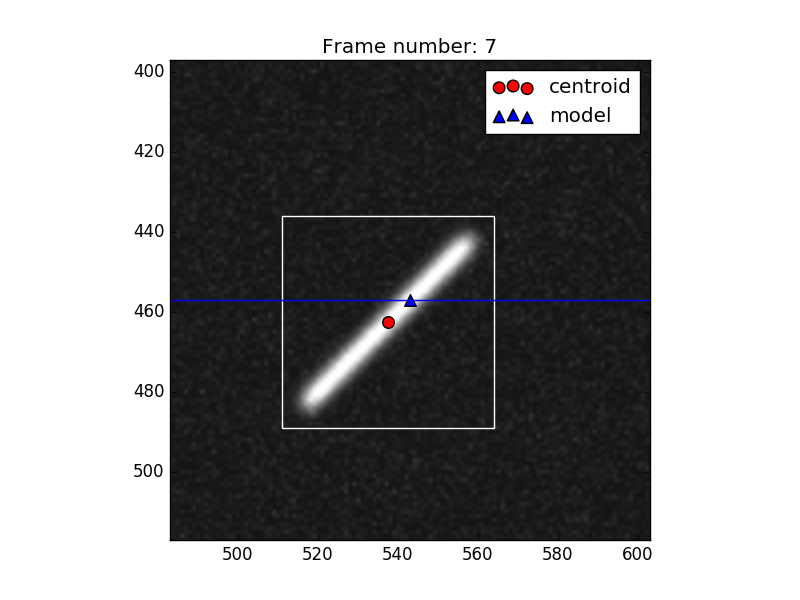
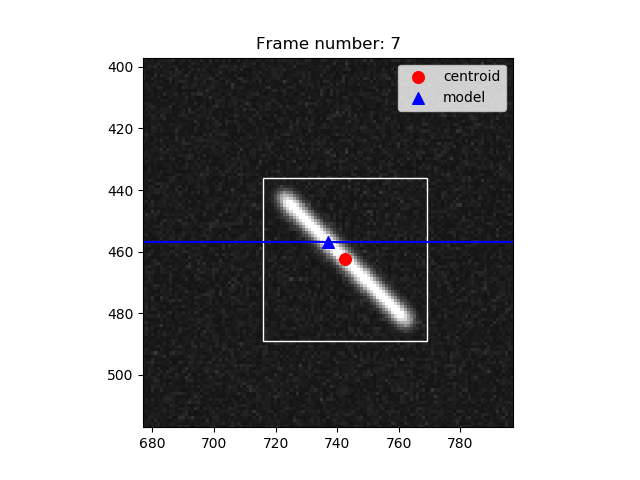
debugging spatial correction

Changed region(s): [[0.1562, 0.0625, 0.8125, 0.9375]]

diff --git a/Source/SimulationTools.py b/Source/SimulationTools.py
@@ -11,6 +11,18 @@ import matplotlib.patches as patches
 import scipy.optimize as opt
 import scipy.special as sp
 
+def ConvToSim(conv_phi):
+
+    sim_phi = (conv_phi + 270) % 360
+
+    return sim_phi
+
+def SimToConv(sim_phi):
+
+    conv_phi = (sim_phi - 270) % 360
+
+    return conv_phi
+
 def drawPoints(t, x_center, y_center, scale, phi, omega, fit_param, t_meteor):
     """ Calculate position of a meteor on image with the given simulation parameters. 
 
@@ -35,8 +47,16 @@ def drawPoints(t, x_center, y_center, scale, phi, omega, fit_param, t_meteor):
     # Convert angle to radians
     phi = np.radians(phi)
 
+    # print(t)
+    # print(t+t_meteor/2)
+    # print(omega*t*scale)
+    # print(- a*np.exp(b*(t+t_meteor/2))*scale)
+
+    omega_dec = omega - a*b*np.exp(b*(t+t_meteor/2))
+    # print(omega_dec)
+
     # Calculate distance from centre in pixels
-    z = omega*t*scale - a*np.exp(b*(t+t_meteor/2))*scale
+    z = omega_dec*t*scale
 
     # Calculate position of meteor on the image
     x_meteor = x_center - np.sin(phi)*z
@@ -263,6 +283,17 @@ def pointsCentroidAndModel(rolling_shutter, t_meteor, phi, omega, img_x, img_y, 
         x_start, y_start = drawPoints(t_start, x_center, y_center, scale, phi, omega, fit_param, t_meteor)
         x_finish, y_finish = drawPoints(t_finish, x_center, y_center, scale, phi, omega, fit_param, t_meteor)
 
+        # print('-'*20)
+
+        # print(t_start, t_finish)
+        # print(t_start + t_meteor/2, t_finish + t_meteor/2)
+        # print(omega*t_start*scale, omega*t_finish*scale)
+        # print(- fit_param[0]*np.exp(fit_param[1]*(t_start+t_meteor/2))*scale, - fit_param[0]*np.exp(fit_param[1]*(t_finish+t_meteor/2))*scale)
+
+        # print(x_start - x_finish)
+        # print(y_start - y_finish)
+
+        # print('-'*20)
 
         # Add 3 sigma border around them
         x_start, x_finish, y_start, y_finish = calcSigmaWindowLimits(x_start, x_finish, sigma_x, y_start, \
@@ -303,9 +334,13 @@ def pointsCentroidAndModel(rolling_shutter, t_meteor, phi, omega, img_x, img_y, 
         # Read image (output image) array
         read_image_array = np.zeros(shape=(img_y, img_x), dtype=np.float_)
 
+        # print('-'*20)
+
 
         # Draw two dimensional Gaussian function for each point in time
         for t in t_arr_iter:
+
+            # print(t)
 
             # Evaluate meteor point and 2D Gaussian
             x, y = drawPoints(t, x_center, y_center, scale, phi, omega, fit_param, t_meteor)
@@ -435,13 +470,13 @@ def pointsCentroidAndModel(rolling_shutter, t_meteor, phi, omega, img_x, img_y, 
 
             plt.axhline(y=y_model, c='b')
 
-            (x_st, x_fin, y_st, y_fin) = calcSigmaWindowLimits(x_model, x_model, sigma_x*10, y_model, y_model, sigma_y*10, phi)
-            plt.xlim([x_st, x_fin])
-            plt.ylim([y_fin, y_st])
+            # (x_st, x_fin, y_st, y_fin) = calcSigmaWindowLimits(x_model, x_model, sigma_x*10, y_model, y_model, sigma_y*10, phi)
+            # plt.xlim([x_st, x_fin])
+            # plt.ylim([y_fin, y_st])
 
             plt.legend(loc='upper right')
 
-            plt.savefig('../Images/centroids/{}.png'.format(i))
+            plt.savefig('../Figures/Images/centroids/{}i.png'.format(i))
 
             plt.show()
 
@@ -687,13 +722,29 @@ def coordinateCorrection(time_coordinates, centroid_coordinates, img_y, fps, ver
         r = centroidDifference(start_coord, ind_coord)
         r_coordinates.append(r)
 
+    delta_r = r_coordinates[num_coord-1] - r_coordinates[0]
+    delta_x = x_coordinates[num_coord-1] - x_coordinates[0]
+    delta_y = y_coordinates[num_coord-1] - y_coordinates[0]
+
+    if delta_x <= 0:
+        phi = np.arccos(delta_y/delta_r)
+    else:
+        phi = -np.arccos(delta_y/delta_r)
+
+    print('New phi', phi)
+
+    if phi < 0:
+        phi += 2*np.pi
+
     # Linear fit function
-    def linFit(r, phi, b):
-        return r * np.cos(phi) + b
+    # def linFit(r, phi, b):
+        # return r * np.cos(phi) + b
 
     # Fit to find slope
-    param, pcov = opt.curve_fit(linFit, r_coordinates, y_coordinates)
-    phi = param[0]
+    # param, pcov = opt.curve_fit(linFit, r_coordinates, y_coordinates)
+    # phi = param[0]
+
+    # phi = np.deg2rad(315)
     
 
     print('Meteor slope fit finished.')
@@ -719,14 +770,18 @@ def coordinateCorrection(time_coordinates, centroid_coordinates, img_y, fps, ver
     # Assume that the first velocity is equal to the subsequent velocity
     v_arr.insert(0, v_arr[0])
 
+    print('Average velocity without smoothening:', np.average(v_arr))
+
     print('Point to point velocity calculation done.')
 
     ### Smooth out velocity ###
     
-    for i in range(num_coord - 2):
-        v_arr[i + 1] = (v_arr[i] + v_arr[i + 2]) / 2
+    # for i in range(num_coord - 2):
+        # v_arr[i + 1] = (v_arr[i] + v_arr[i + 2]) / 2
 
-    print('Velocity smoothened out.')
+    # print('Average velocity after smoothening:', np.average(v_arr))
+
+    # print('Velocity smoothened out.')
     
     ### Apply correction to velocity array ###
 
@@ -734,6 +789,9 @@ def coordinateCorrection(time_coordinates, centroid_coordinates, img_y, fps, ver
 
         for i in range(num_coord):
             v_arr[i] += velocityCorrection(v_arr[i], phi, img_y, fps)
+            # print('velocity, correction, product')
+            print('{:.2f} {:.2f} {:.2f}'.format(v_arr[i], velocityCorrection(v_arr[i], phi, img_y, fps), v_arr[i] + velocityCorrection(v_arr[i], phi, img_y, fps)))
+            
 
         print('Velocity correction done. ')
 
@@ -889,7 +947,7 @@ def meteorCorrection(time_coordinates, centroid_coordinates, img_y, fps, correct
         return centroid_coordinates_corr
 
 
-def getparam(a, v_start, v_finish, t):
+def getparam(a, v_start, v_finish, t, fps):
     ''' Calculates the second parameter of the exponentional meteor deceleration function. 
     Arugments:
         a: [float or int] First parameter of the exponentional function. 
@@ -901,6 +959,9 @@ def getparam(a, v_start, v_finish, t):
         b: [float] The second parameter of the exponentional function. 
     '''
     
-    b = sp.lambertw((v_start - v_finish) / a * t).real / t
+    t_new = int(round(t*fps))/fps
+    print(t, t_new)
+
+    b = sp.lambertw((v_start - v_finish) / a * t_new).real / t_new
     
     return b

diff --git a/Source/ODN-Rv_corrSim.py b/Source/ODN-Rv_corrSim.py
@@ -6,42 +6,56 @@
 from __future__ import print_function, division, absolute_import
 import numpy as np
 import SimulationTools as st
+# import DataAnalysisTools as dat 
 import Parameters as par
 
 # Parameters that are used only for this simulation
 rolling_shutter = True
 show_plots = False
 
+# Correction for the new definition of phi
+phi = st.ConvToSim(par.phi)
+
 # Number of iterations for each angular velocity value - 
 # used to have a better representatin of the actual difference value
-n_iter = 10
+n_iter = 2
 
 # Final array with all 4 noise values
 noise_arr = []
+
+
+omega_odn_arr = np.arange(46, 50, 0.5)
 
 # Go through all noise and velocity values
 for noise in par.noise_scale_arr:
 
 	noise_diff_arr_iter = []
 
-	for omega_iter in par.omega_odn_arr:
+	for omega_iter in omega_odn_arr:
+
+		# if omega_iter > 46:
+			# show_plots = True
 		
 		# Average of averages array
 		diff_arr = []
 
 		t_meteor = st.timeFromAngle(par.phi, omega_iter, par.img_x, par.img_y, par.scale, par.fps)
 
+		print('Duration:',t_meteor)
+
 		# Get deceleration parameters
 		a = 1e-3
-		dec_arr = [a, st.getparam(a, omega_iter, omega_iter*0.9, t_meteor)]
+		dec_arr = [a, st.getparam(a, omega_iter, omega_iter*0.9, t_meteor, par.fps)]
 		print('Deceleration parameters: ', dec_arr)
 
 		# Get average model - centroid point difference for each meteor
 		for i in range(n_iter):
 
 			# Get model and centroid coordinates
-			time_coordinates, centroid_coordinates, model_coordinates = st.pointsCentroidAndModel(rolling_shutter, par.t_meteor, par.phi, \
+			time_coordinates, centroid_coordinates, model_coordinates = st.pointsCentroidAndModel(rolling_shutter, par.t_meteor, phi, \
             	omega_iter, par.img_x, par.img_y, par.scale, par.fps, par.sigma_x, par.sigma_y, noise, par.offset, dec_arr, show_plots)
+
+			print('-'*20)
 
 			# print(centroid_coordinates)
 
@@ -49,6 +63,11 @@ for noise in par.noise_scale_arr:
 			centroid_coordinates = st.coordinateCorrection(time_coordinates, centroid_coordinates, par.img_y, par.fps, version = 'v_corr')
 			
 			# print(centroid_coordinates)
+			# print(model_coordinates)
+
+			vel_model = st.getVelocity(time_coordinates, model_coordinates)
+			for v in vel_model:
+				print('{:.2f}'.format(v))
 
 			# Compute difference
 			diff = st.centroidAverageDifference(centroid_coordinates, model_coordinates)

diff --git a/Source/ODN-GSim.py b/Source/ODN-GSim.py
@@ -9,9 +9,13 @@ import numpy as np
 import SimulationTools as st
 import Parameters as par
 
-# Parameters that are used only for this simulation
+# Parameters that are used only for this simulationb
 rolling_shutter = False
-show_plots = True
+show_plots = False
+
+# Correction for the new definition of phi
+phi = st.ConvToSim(par.phi)
+print(phi)
 
 # Number of iterations for each angular velocity value - 
 # used to have a better representatin of the actual difference value
@@ -34,8 +38,8 @@ for noise in par.noise_scale_arr:
 		for i in range(n_iter):
 
 			# Get model and centroid coordinates
-			time_coordinates, centroid_coordinates, model_coordinates = st.pointsCentroidAndModel(rolling_shutter, par.t_meteor, par.phi, \
-            	omega_iter, par.img_x, par.img_y, par.scale, par.fps, par.sigma_x, par.sigma_y, noise, par.offset, par.fit_param, par.show_plots)
+			time_coordinates, centroid_coordinates, model_coordinates = st.pointsCentroidAndModel(rolling_shutter, par.t_meteor, phi, \
+            	omega_iter, par.img_x, par.img_y, par.scale, par.fps, par.sigma_x, par.sigma_y, noise, par.offset, par.fit_param, show_plots)
 
 			# Compute difference
 			diff = st.centroidAverageDifference(centroid_coordinates, model_coordinates)

diff --git a/Source/Obs-0521-Plot.py b/Source/Obs-0521-Plot.py
@@ -8,6 +8,7 @@ import numpy as np
 import matplotlib.pyplot as plt 
 import re
 
+import SimulationTools as st 
 import DataAnalysisTools as dat
 
 # Directories where the angular velocity arrays are saved
@@ -47,7 +48,7 @@ def strip_camo(s):
 files_arr = (sorted(files_arr[0], key=strip_camo), sorted(files_arr[1], key=strip_rms), sorted(files_arr[2], key=strip_rms), sorted(files_arr[3], key=strip_rms))
 
 # Get meteor angles
-phi_arr = np.load(ang_dir + 'angles.npz')['arr_0']
+phi_arr = st.SimToConv(np.load(ang_dir + 'angles.npz')['arr_0']) 
 
 
 n = len(files_arr[0])
@@ -102,7 +103,7 @@ for i in range(n):
 	plt.plot(time_spat, av_spat, 'bo', markersize = 8, markerfacecolor = "None", markeredgecolor = "blue", markeredgewidth = 2, label = 'RMS spatial')
 	plt.plot(time_camo, av_camo, 'y^', label = 'CAMO')
 	
-	plt.title(r'$\phi$ = {} [deg]'.format(phi))
+	plt.title(r'$\phi$(FTP) = {} [deg]'.format(phi))
 
 	plt.legend(loc='best')
 

diff --git a/Source/ODN-Rv_corrPlot.py b/Source/ODN-Rv_corrPlot.py
@@ -7,6 +7,8 @@ import matplotlib.pyplot as plt
 import numpy as np
 import Parameters as par
 
+plt.ioff()
+
 # Load data
 data = np.load('../Data/ODN/data_odn_v_corr_rolling.npz')
 
@@ -34,8 +36,9 @@ plt.title("Meteor angle {} [deg] (corrected velocity)".format(par.phi))
 plt.axis('tight')
 
 # Limit the centroid offset to the maximum offset found throughout the spatial and temporal simulations
-plt.ylim((0, 0.45))
+# plt.ylim((0, 0.45))
 
 # Save and show plot
 plt.savefig('../Graphs/ODN/graph_odn_v_corr_rolling.png')
-plt.show()
+
+plt.close()

diff --git a/Source/ODN-Rtemp_corrPlot.py b/Source/ODN-Rtemp_corrPlot.py
@@ -8,6 +8,8 @@ import matplotlib.pyplot as plt
 import numpy as np
 import Parameters as par
 
+plt.ioff()
+
 # Load data
 data = np.load('../Data/ODN/data_odn_temp_rolling.npz')
 
@@ -39,4 +41,5 @@ plt.ylim((0, 0.45))
 
 # Save and show plot
 plt.savefig('../Graphs/ODN/graph_odn_temp_rolling.png')
-plt.show()
+
+plt.close()

diff --git a/Source/ODN-RSim.py b/Source/ODN-RSim.py
@@ -12,6 +12,10 @@ import Parameters as par
 # Parameters that are used only for this simulation
 rolling_shutter = True
 show_plots = False
+phi = st.ConvToSim(par.phi)
+
+print(phi)
+
 
 # Number of iterations for each angular velocity value - 
 # used to have a better representatin of the actual difference value

diff --git a/Source/OPdV-R3DPlot.py b/Source/OPdV-R3DPlot.py
@@ -15,6 +15,10 @@ omega_arr = data['arr_0']
 phi_arr = data['arr_1']
 deltav_arr = data['arr_2']
 
+# Correction for the new definition of image angle phi
+phi_arr = [(x-90)%360 for x in phi_arr]
+deltav_arr = [x*-1 for x in deltav_arr]
+
 # Set 3D scatter plot
 fig = plt.figure()
 ax = Axes3D(fig)

diff --git a/Source/ODN-RPlot.py b/Source/ODN-RPlot.py
@@ -33,6 +33,9 @@ plt.title("Meteor angle {} [deg]".format(par.phi))
 # Configure the plot axis
 plt.axis('tight')
 
+plt.xlim((min(omega_arr), max(omega_arr)))
+plt.ylim((min(noise0_data), max(noise0_data)))
+
 # Save and show plot
 plt.savefig('../Graphs/ODN/graph_odn_rolling.png')
 plt.show()

diff --git a/Source/ODN-Rtemp_corrSim.py b/Source/ODN-Rtemp_corrSim.py
@@ -23,7 +23,9 @@ y_center = par.img_y/2
 # used to have a better representatin of the actual difference value
 n_iter = 10
 
-phi = par.phi
+# Correction for the new definition of phi
+phi = st.ConvToSim(par.phi)
+
 noise_arr = []
 
 for noise in par.noise_scale_arr:

diff --git a/Figures/Source/meteors_generator.py b/Figures/Source/meteors_generator.py
@@ -7,6 +7,11 @@ import Parameters as par
 
 rolling_shutter = True
 phi = 45
+
+# Correction for the new definition of phi
+phi = st.ConvToSim(phi)
+
+
 omega = 45
 show_plots = True
 noise_scale = 10
